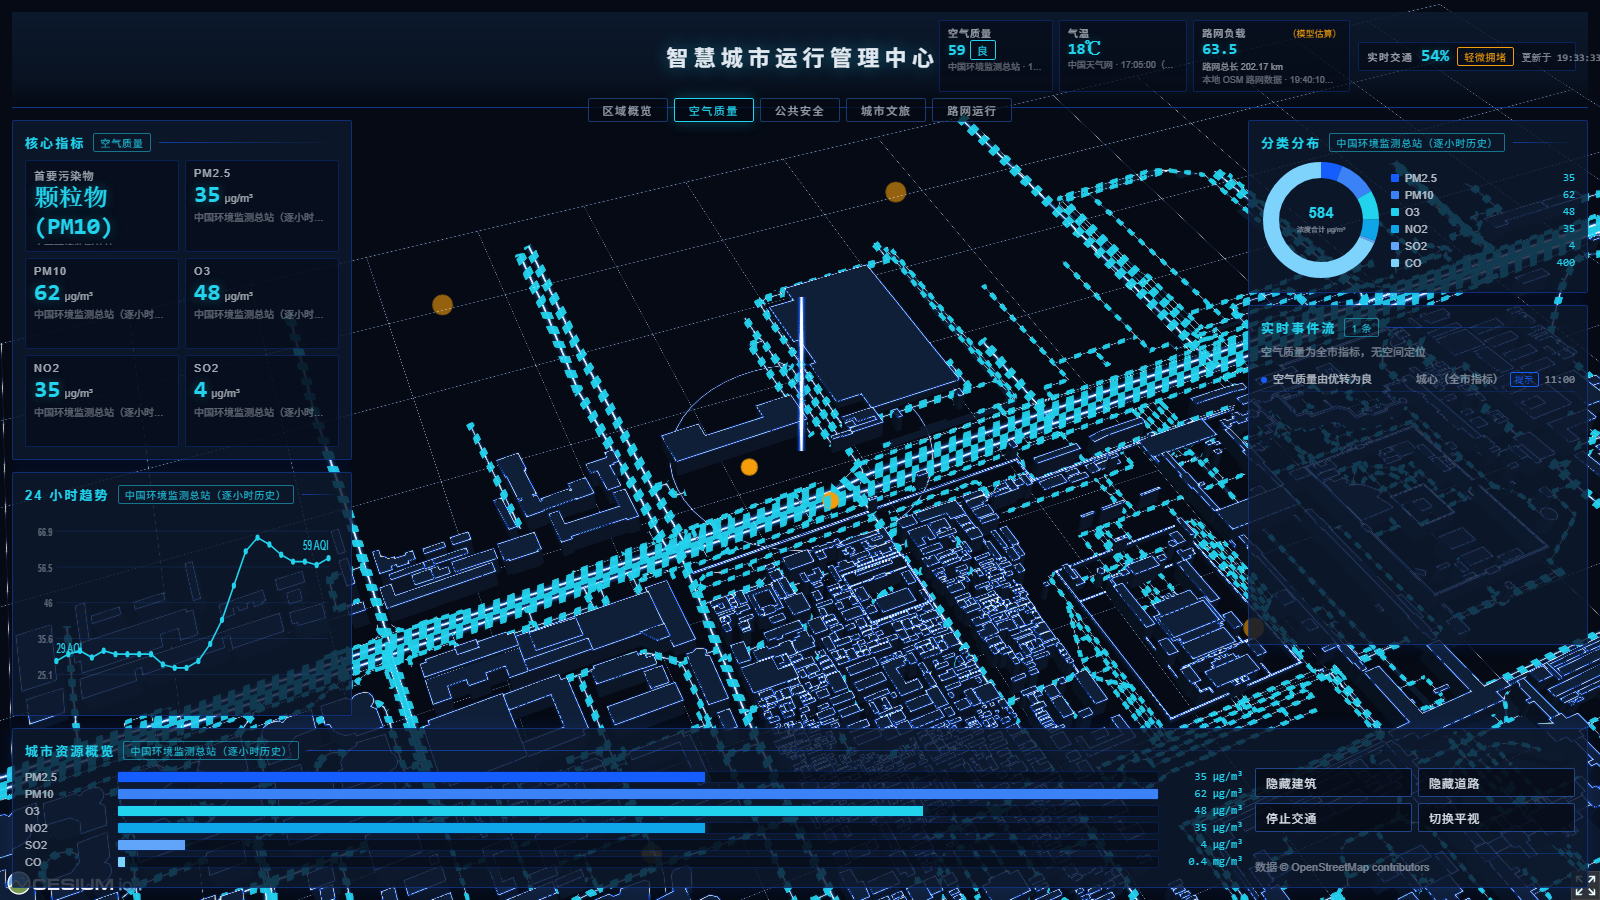
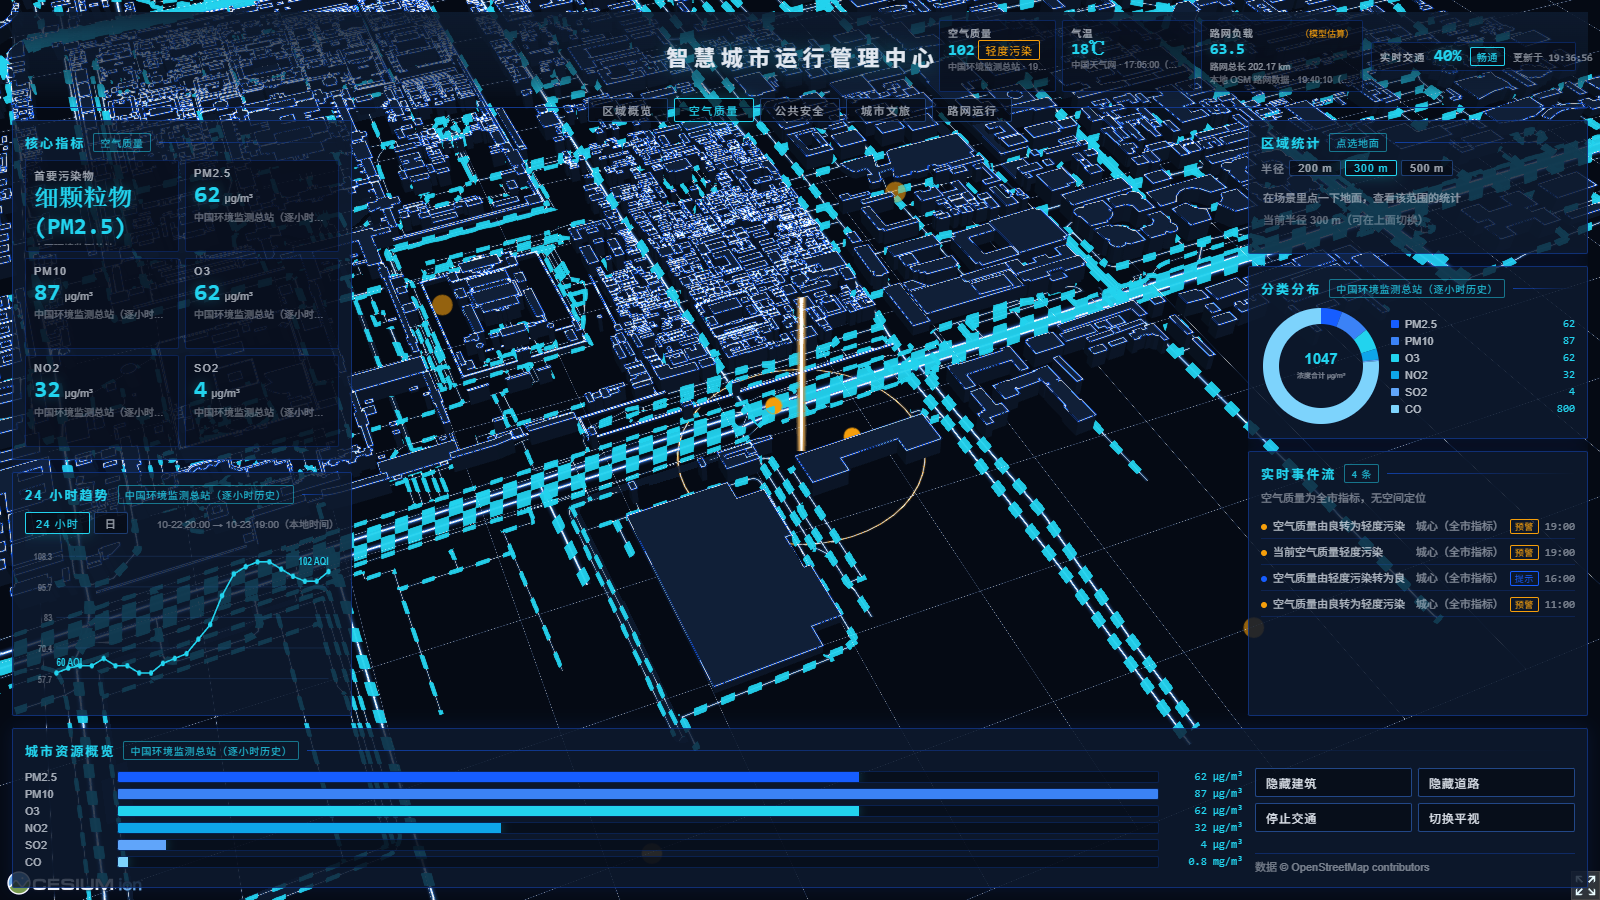
Plan T5: document the area interaction and refresh the screenshots

diff --git a/backend-python/README.md b/backend-python/README.md
@@ -476,9 +476,13 @@ GET /api/city/area?bbox=116.390,39.905,116.405,39.915
 各段之和与总额必然对得上账。
 
 缓存：范围过滤复用按 `bbox` 的过滤结果 LRU（上限 8），聚合结果**另加一层 LRU-8**。
-实测冷启动 143 ms，缓存命中中位 **2.64 ms**（P95 5.19 ms）。
+本机实测（**共享开发机**）：进程刚起的第一次请求 **349 ms**（含 GeoJSON 解析），
+缓存命中**中位 2.8 ms**、**最小 1.9 ms**、P95 16 ms —— 共享机器上 `min` 更能说明
+「应用本身有多快」，P95 里那几毫秒是机器上别的进程抢 CPU。
 
-> **这个端点目前只有后端**：大屏上的前端交互还没接，界面上暂时没有可点的区域入口。
+> **这个端点的前端入口**：大屏右列第一块「区域统计」——在场景里单击地面，
+> 以命中点为中心取一个固定半径的矩形范围来查（半径 200 / 300 / 500 m 可切）。
+> 面板上的数字与本端点的返回逐字一致。
 > 另外 `facility_categories[].members` **恒为空数组**（只给计数，不给成员 id）。
 
 ### `bbox` 查询参数
@@ -627,13 +631,13 @@ node scripts\measure-browser-performance.mjs
 | 指标 | 验收线 | 实测 | 判定 |
 |---|---|---|---|
 | 后端覆盖率（`main.py` + `data_processor.py` + `city_data/`） | > 90% | **95%**（1372 条语句 / 73 条未覆盖；`main.py` 97%、`data_processor.py` 89%） | 达标 |
-| 前端覆盖率（`src/**` 全口径） | > 80% | **97.86%** 语句、95.94% 函数、**88.5%** 分支 | 达标 |
+| 前端覆盖率（`src/**` 全口径） | > 80% | **98.03%** 语句、96.44% 函数、**89.6%** 分支 | 达标 |
 | `/api/buildings`（全量）P95 | < 200 ms | **25.4 ms**（gzip 24.6 ms；中位数 4.3 ms） | 达标 |
 | `/api/roads`（全量）P95 | < 200 ms | **27.8 ms**（gzip 21.2 ms；中位数 3.4 ms） | 达标 |
 | 带 bbox 的路径 P95 | < 200 ms | **132.1 ms**（gzip 162.7 ms） | 达标 |
 | `/api/city/overview`（缓存命中）P95 | 参考 | **17.5 ms** | 参考 |
 | `/api/city/overview`（冷启动，含外部源往返） | 参考 | **约 1150 ms** | 参考 |
-| `/api/city/area`（缓存命中） | 参考 | 中位 **2.64 ms**（P95 5.19 ms；冷启动 143 ms） | 参考 |
+| `/api/city/area`（缓存命中） | 参考 | 中位 **2.8 ms**（min 1.9 ms、P95 16 ms；进程冷启动首请求 349 ms） | 参考 |
 | Vite 产物体积（不含 Cesium 运行时） | < 5 MB | **3.97 MB**（5 个文件） | 达标 |
 | `dist/` 总体积 | < 5 MB（含 3.75 MB 自托管 Cesium 运行时） | **7.72 MB**（104 个文件） | **口径差异**（不判达标/不达标） |
 | 首屏外部请求 | 0 | **0 个** | 达标 |
@@ -677,9 +681,8 @@ stats = processor.calculate_building_statistics(data)
 
 ## 已知限制
 
-- **区域统计端点目前只有后端** —— `GET /api/city/area` 的前端交互还没接，
-  大屏上暂时没有可点的区域入口
-- 区域统计的 `facility_categories[].members` **恒为空数组**（只给分类计数，不给成员 id）
+- 区域统计的 `facility_categories[].members` **恒为空数组**（只给分类计数，不给成员 id）——
+  「点某个分类、高亮该范围内的建筑」还做不到，目前只回答「范围内有多少」
 - 天气源**只有北京可用**（`101010100`），且上游只给 `HH:MM`，时间戳可能落在未来
   —— 契约里标 `realtime: false`，**不新鲜就说不新鲜**
 - 城市代码表是**静态快照**（**368 个代码**，只有代码没有名称），上游新增城市要重新抓

diff --git a/README.md b/README.md
@@ -21,6 +21,10 @@
 逐日视图给出最近 14 天的 AQI 与六项污染物日均值，可逐项切换。
 时间都是本地时间，取不到数据时显示空态，不画一条假的平线。
 
+**点一下地面，查那片范围。** 在三维场景里单击地面，右列立刻给出这一片的建筑数、路网总长、
+道路分级、设施分类与建筑密度。半径可选 200 / 300 / 500 m；点的是哪个位置、范围多大，
+面板上都写着，数字与接口返回逐字一致。
+
 **知道每个数字的来路。** 空气质量与气温来自公开数据源，建筑与道路来自本地 OSM 抽取。
 每张指标卡标着来源名与观测时间；模型估算项单独标注；某个源取不到时显示「数据源暂不可用」，
 不用 0 或旧值顶替。
@@ -45,6 +49,14 @@
 
 切到这个页签，医疗、公共安全与教育设施所在的那几栋楼被点亮，其余建筑的描边压暗 ——
 城市还在，注意力收到了该看的地方。
+
+### 区域统计
+
+![区域统计：右列上方的面板给出选中范围的建筑数、路网总长、道路分级与设施分类](docs/images/dashboard-area-stats.png)
+
+在场景里单击地面，面板给出这一片的范围面积、建筑数、路网总长与建筑密度，
+外加道路分级和设施分类的分解。半径可选 200 / 300 / 500 m；
+面板上标着选中的坐标与数据来源，数字与接口返回逐字一致。
 
 ## 快速开始
 
@@ -98,7 +110,7 @@ cd backend-python      && ./.venv/Scripts/python.exe main.py
 |---|---|---|---|
 | 空气质量（AQI / 分级 / 首要污染物 / 24 小时序列 / 14 天逐日序列） | `https://air.cnemc.cn:18007`（中国环境监测总站） | 免凭据 | 实时（小时级）；逐日序列按定义不是实时 |
 | 气温 / 湿度 | `http://www.weather.com.cn/data/sk/101010100.html`（中国天气网） | 免凭据 | 上游只给 `HH:MM`，时间戳可能落在未来，契约里标 `realtime: false`；仅北京可用 |
-| 建筑 / 道路 / 路网 / 设施分类 | 本地 OpenStreetMap 抽取 | 无 | 静态快照 |
+| 建筑 / 道路 / 路网 / 设施分类 / 区域统计 | 本地 OpenStreetMap 抽取 | 无 | 静态快照 |
 
 - 路网负载指数是**模型估算**（静态几何折算的供给紧张度，不是实测路况），界面上标「（模型估算）」。
 - 端点不会因为某个上游挂了而报错 —— 该源降级，其余指标照常返回。
@@ -125,7 +137,7 @@ cd backend-python      && ./.venv/Scripts/python.exe main.py
 | `Data-driven-modeling/src/components/SmartCity.vue` | 场景装配层：把场景 composable、数据轮询与大屏骨架接起来 |
 | `Data-driven-modeling/src/components/DashboardOverlay.vue` | 16:9 大屏骨架 |
 | `Data-driven-modeling/src/components/dashboard/` | 大屏面板与图表组件 |
-| `Data-driven-modeling/src/composables/` | 场景层（底座 / 相机 / 交通 / 事件标记 / 页签联动）、取数、页签状态与纯函数 |
+| `Data-driven-modeling/src/composables/` | 场景层（底座 / 相机 / 交通 / 事件标记 / 页签联动 / 区域统计）、取数、页签状态与纯函数 |
 | `Data-driven-modeling/src/theme/` | 深色色板与大屏设计 token |
 | `docs/ARCHITECTURE.md` | 架构说明与开发约定 |
 
